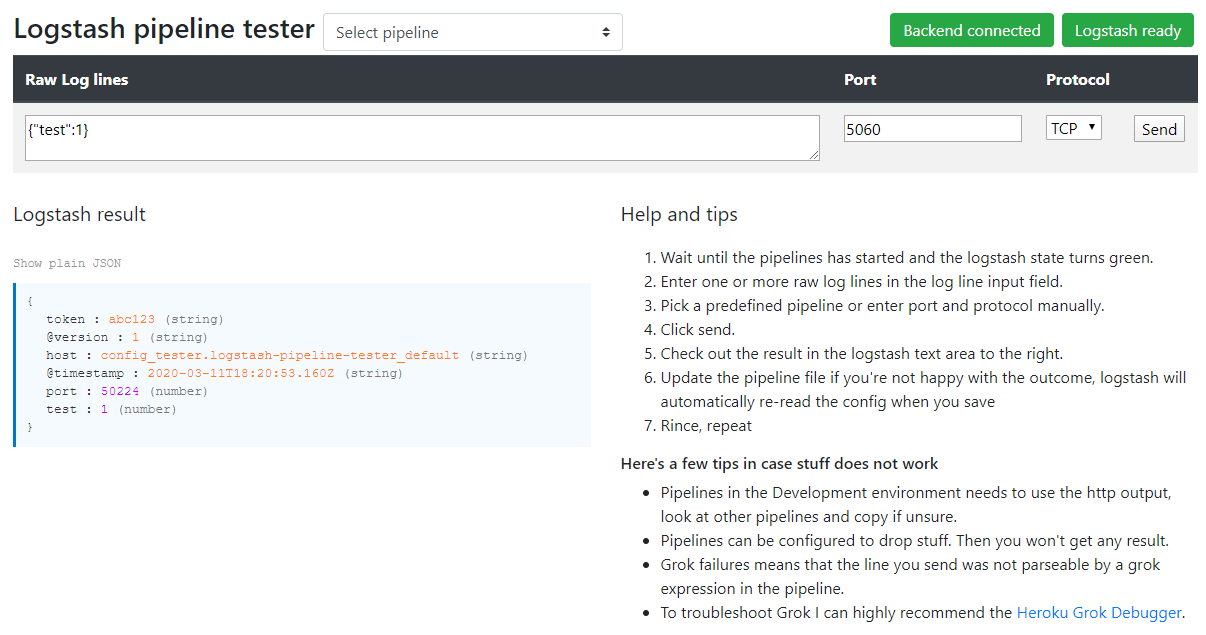
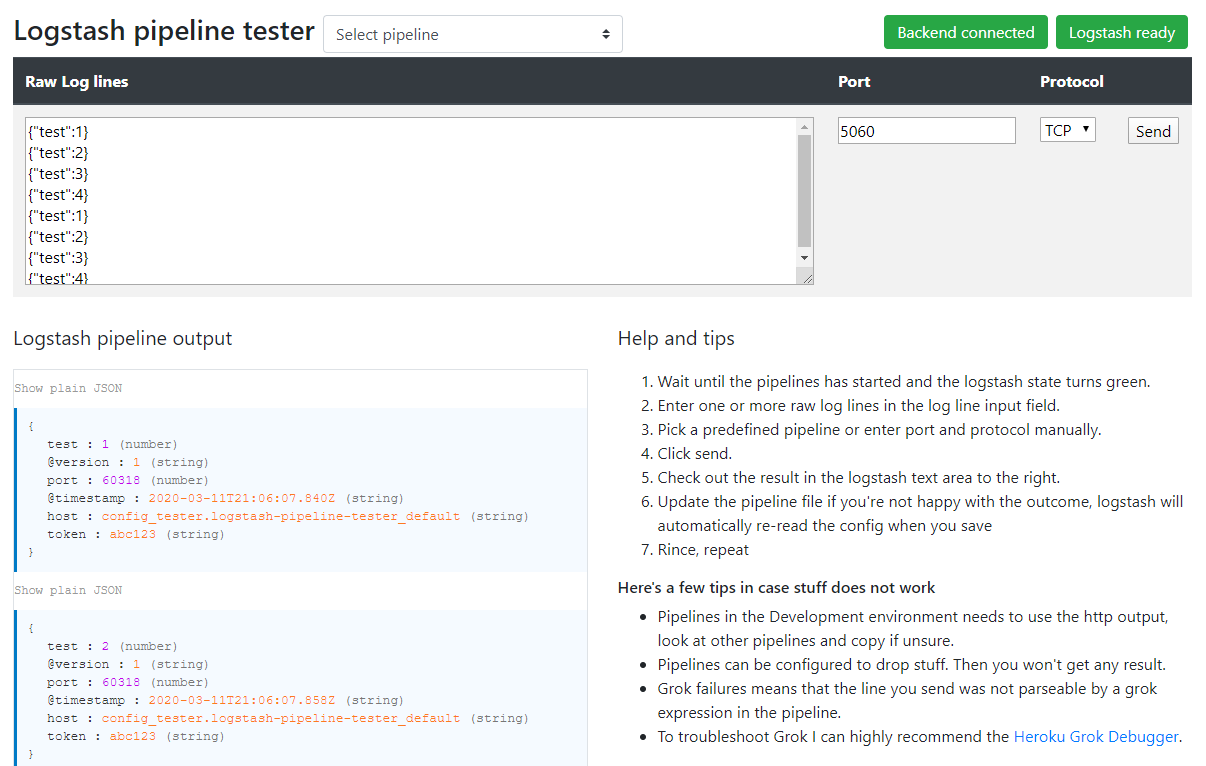
Adding new screenshot with multiple lines, html style improvements

Changed region(s): [[0.0, 0.0, 1.0, 0.9874], [0.0, 0.8079, 0.4295, 1.0], [0.0, 0.7181, 0.092, 0.778]]

diff --git a/pipeline-ui/src/public/js/pipeline-ui.js b/pipeline-ui/src/public/js/pipeline-ui.js
@@ -22,9 +22,18 @@ $( document ).ready(function() {
         sendLogLines(sendString, port, protocol);
     });
 
+    // Autosize in case someone has cached content that exceeds two rows
     $('textarea#send-string').on('keyup', autoSize);
+    setTimeout(() => { triggerEvent('keyup', 'textarea#send-string')},500);
     preparePipelines();
 });
+
+function triggerEvent(e, s){
+    "use strict";
+    var event = document.createEvent('HTMLEvents');
+    event.initEvent(e, true, true);
+    document.querySelector(s).dispatchEvent(event);
+}
 
 async function preparePipelines() {
     let res = await fetch('/pipelines');

diff --git a/pipeline-ui/src/public/index.html b/pipeline-ui/src/public/index.html
@@ -49,8 +49,8 @@
         <div class="row">
             <div class="col">
                 <div class="form-group">
-                    <label for="logstash-result" class="label-info col-form-label-lg">Logstash result</label>
-                    <div id="logstash-result"></div>
+                    <label for="logstash-result" class="label-info col-form-label-lg">Logstash pipeline output</label>
+                    <div class="border h-25 overflow-auto" id="logstash-result"></div>
                 </div>
             </div>
             <div class="col">
